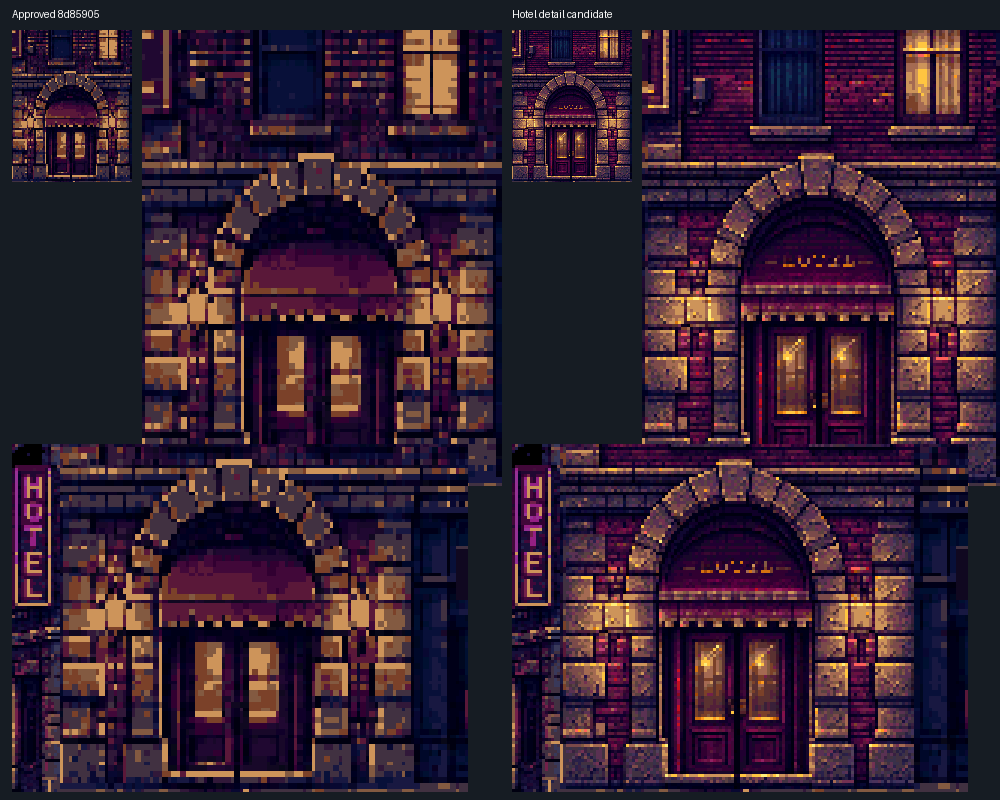
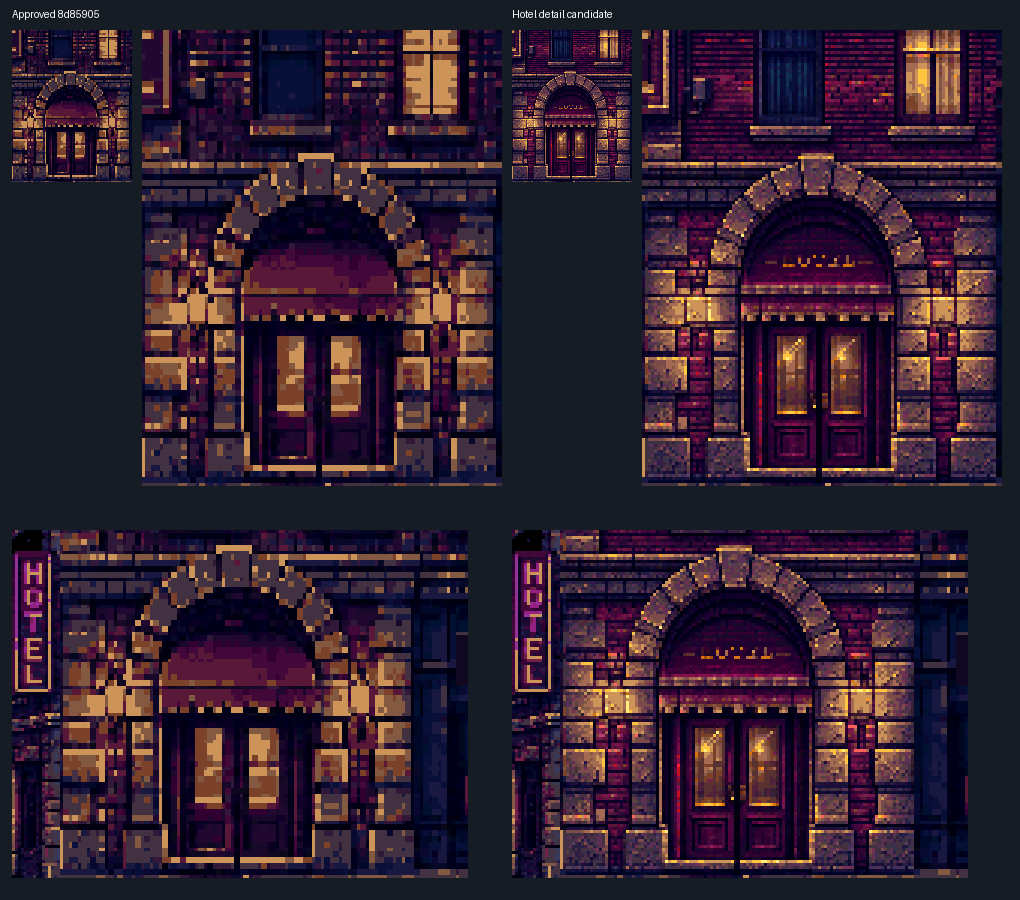
Guard hotel-only art scope and wire native regression validation

diff --git a/tools/validate-hotel-detail.py b/tools/validate-hotel-detail.py
@@ -1,0 +1,35 @@
+#!/usr/bin/env python3
+"""Hotel-only native art milestone; all approved runtime/other planes frozen."""
+from pathlib import Path
+import argparse,hashlib,io,json,subprocess,tarfile,tempfile
+R=Path(__file__).resolve().parents[1];BASE='8d85905eb12421cfe356b994ebab43893680e1b1';A=R/'art/intersection-hotel-detail';O=R/'assets/level1-intersection'
+p=argparse.ArgumentParser();p.add_argument('--disc',action='store_true');p.add_argument('--test',action='store_true');a=p.parse_args()
+proof=json.loads((A/'proof.json').read_text());old=(A/'before.bin').read_bytes();new=(O/'EXTPIX.BIN').read_bytes();mask=(A/'mask.bin').read_bytes()
+assert len(old)==len(new)==len(mask)==640*240
+assert proof['baseline']==BASE and proof['outside_changes']==0
+for data,key in [(old,'before_sha256'),(new,'after_sha256'),(mask,'mask_sha256')]:assert hashlib.sha256(data).hexdigest()==proof[key]
+assert hashlib.sha256((A/'hotel-native-study.png').read_bytes()).hexdigest()==proof['study_sha256']
+assert hashlib.sha256((R/'assets/level1-neon-strip/NSPAL.BIN').read_bytes()).hexdigest()==proof['palette_sha256']
+for i,(before,after,m) in enumerate(zip(old,new,mask)):
+ x=i%640;y=i//640
+ assert m==int(418<=x<534 and y<151)
+ assert before==after or m,('outside hotel',x,y)
+ if m:assert after and not 240<=after<=247,('opaque/static hotel',x,y)
+assert sum(a!=b for a,b in zip(old,new))==proof['changed_pixels']>10000
+with tempfile.TemporaryDirectory(prefix='hotel-approved-') as d:
+ ref=Path(d)
+ with tarfile.open(fileobj=io.BytesIO(subprocess.check_output(['git','archive',BASE],cwd=R))) as t:t.extractall(ref,filter='data')
+ assert old==(ref/'assets/level1-intersection/EXTPIX.BIN').read_bytes()
+ allowed={'Makefile','src/intersection_data.h',*[f'assets/level1-intersection/{n}' for n in ('EXTPIX.BIN','IXPIX.BIN','IXMAP.BIN','IXPACK.BIN','IXOFF.BIN','manifest.json')]}
+ for f in ref.rglob('*'):
+  if f.is_file() and str(f.relative_to(ref)) not in allowed:assert (R/f.relative_to(ref)).read_bytes()==f.read_bytes(),f.relative_to(ref)
+ m=json.loads((O/'manifest.json').read_text());b=json.loads((ref/'assets/level1-intersection/manifest.json').read_text())
+ for k in ('width','height','palette_sha256','original_pixel_sha256','resident_tiles','resident_cell_bytes','map_bytes','VDP2_reserved_bytes','VDP1_delta_bytes','VDP2_delta_bytes','SCSP_delta_bytes'):
+  assert m[k]==b[k],k
+ print('PASS hotel mask: 15918 native material pixels replaced; zero changes to records/residential/side HOTEL neon/road/perspective/older1280; unchanged runtime/gameplay/audio/palette/all video budgets',flush=True)
+if a.test:
+ frozen={f:f.read_bytes() for f in [*O.glob('*.BIN'),O/'manifest.json',R/'src/intersection_data.h']}
+ subprocess.run(['python3','tools/apply-hotel-detail.py'],cwd=R,check=True)
+ subprocess.run(['python3','tools/prepare-hotel-detail.py'],cwd=R,check=True)
+ assert all(f.read_bytes()==b for f,b in frozen.items()),'non-deterministic hotel conversion/packing'
+subprocess.run(['python3','tools/validate-intersection-scale.py',*(['--disc'] if a.disc else []),*(['--test'] if a.test else [])],cwd=R,check=True)

diff --git a/tools/apply-hotel-detail.py b/tools/apply-hotel-detail.py
@@ -21,9 +21,9 @@ proof=dict(baseline='8d85905eb12421cfe356b994ebab43893680e1b1',region=[416,0,536
 colors=(rgb*255//31).astype(np.uint8);before=Image.fromarray(colors[np.frombuffer(old,np.uint8).reshape(240,640)]);after=Image.fromarray(colors[np.frombuffer(new,np.uint8).reshape(240,640)])
 before.save(A/'extension-before.png');after.save(A/'extension-after.png')
 from PIL import ImageDraw
-canvas=Image.new('RGB',(1000,800),(22,28,35));d=ImageDraw.Draw(canvas)
+canvas=Image.new('RGB',(1020,900),(22,28,35));d=ImageDraw.Draw(canvas)
 for col,q in enumerate((before,after)):
  crop=q.crop((416,0,536,152));x=col*500+12;d.text((x,8),('Approved 8d85905','Hotel detail candidate')[col],fill='white');canvas.paste(crop,(x,30));canvas.paste(crop.resize((360,456),Image.Resampling.NEAREST),(x+130,30))
- canvas.paste(q.crop((400,36,552,152)).resize((456,348),Image.Resampling.NEAREST),(col*500+12,444))
+ canvas.paste(q.crop((400,36,552,152)).resize((456,348),Image.Resampling.NEAREST),(col*500+12,530))
 canvas.save(R/'docs/intersection-hotel-detail/before-after.png');after.save(R/'docs/intersection-hotel-detail/intersection-after.png')
 print(json.dumps(proof,indent=2))
